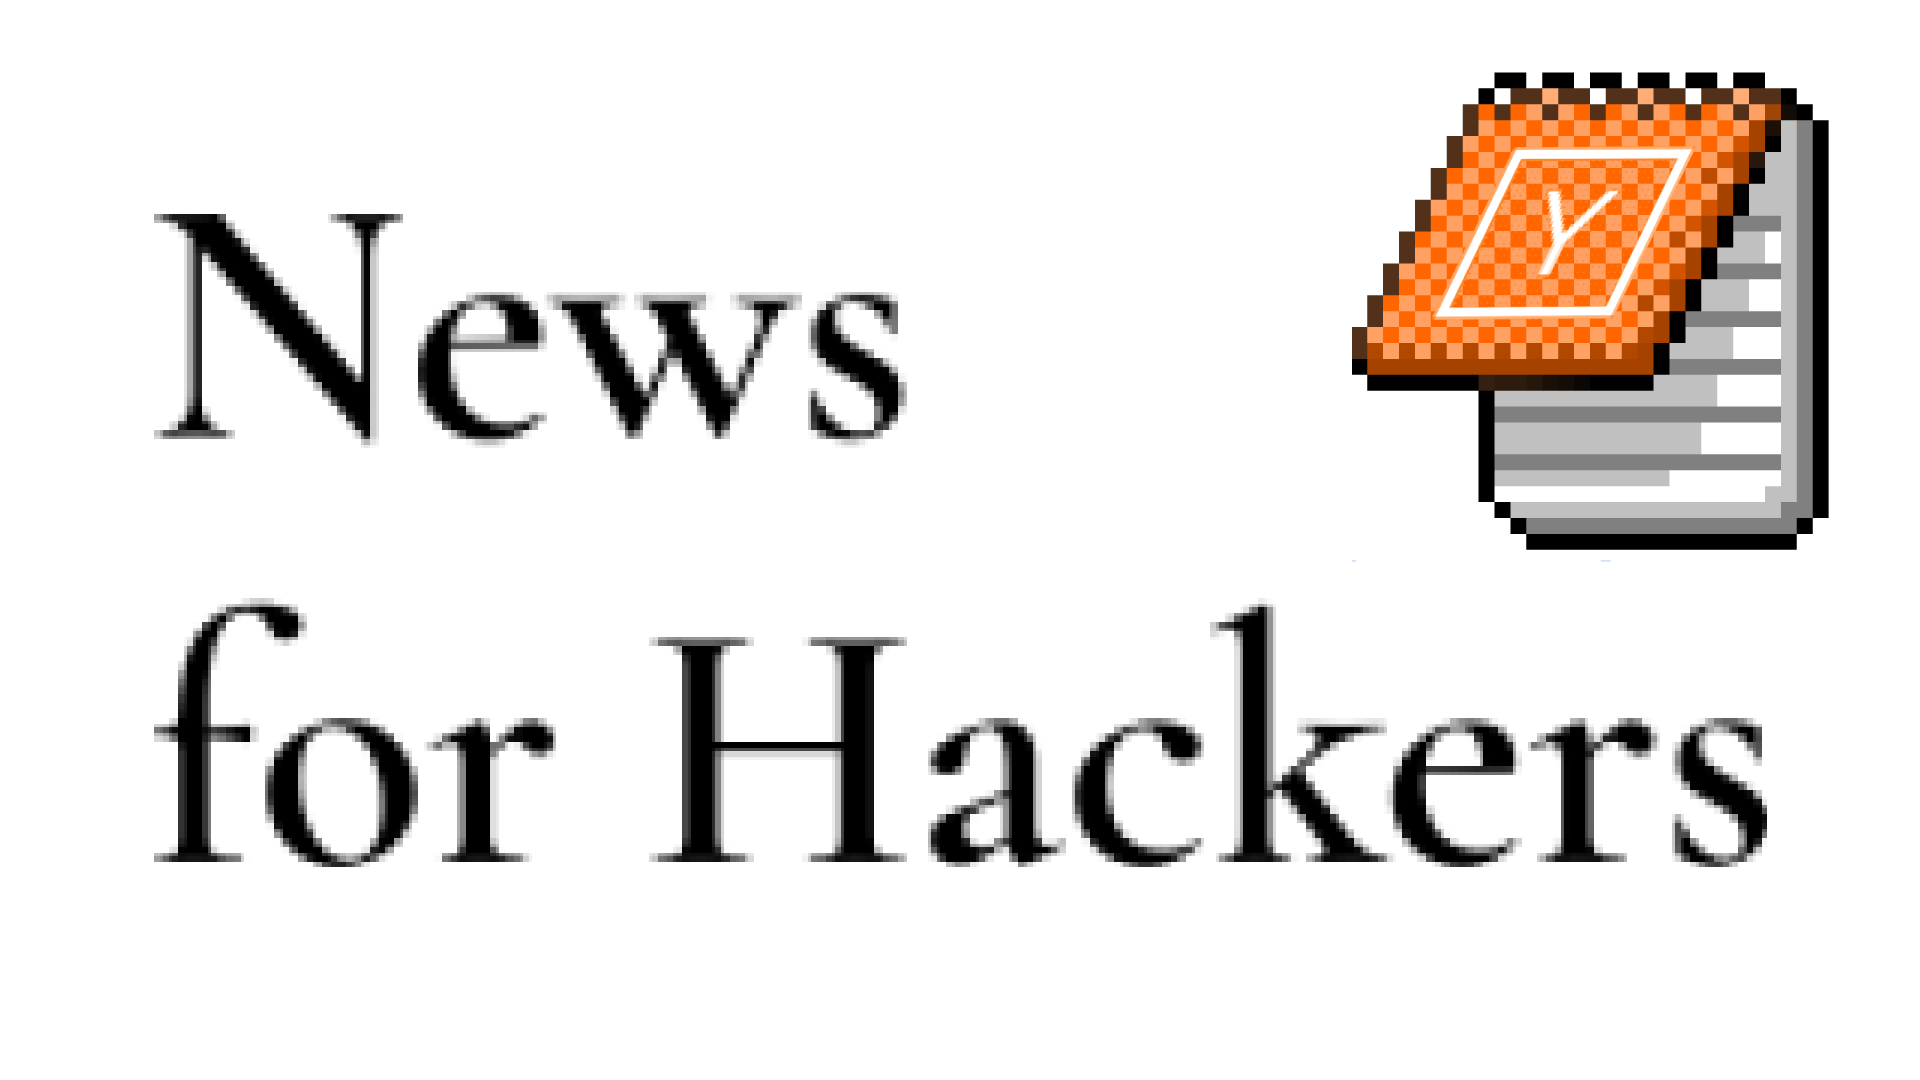
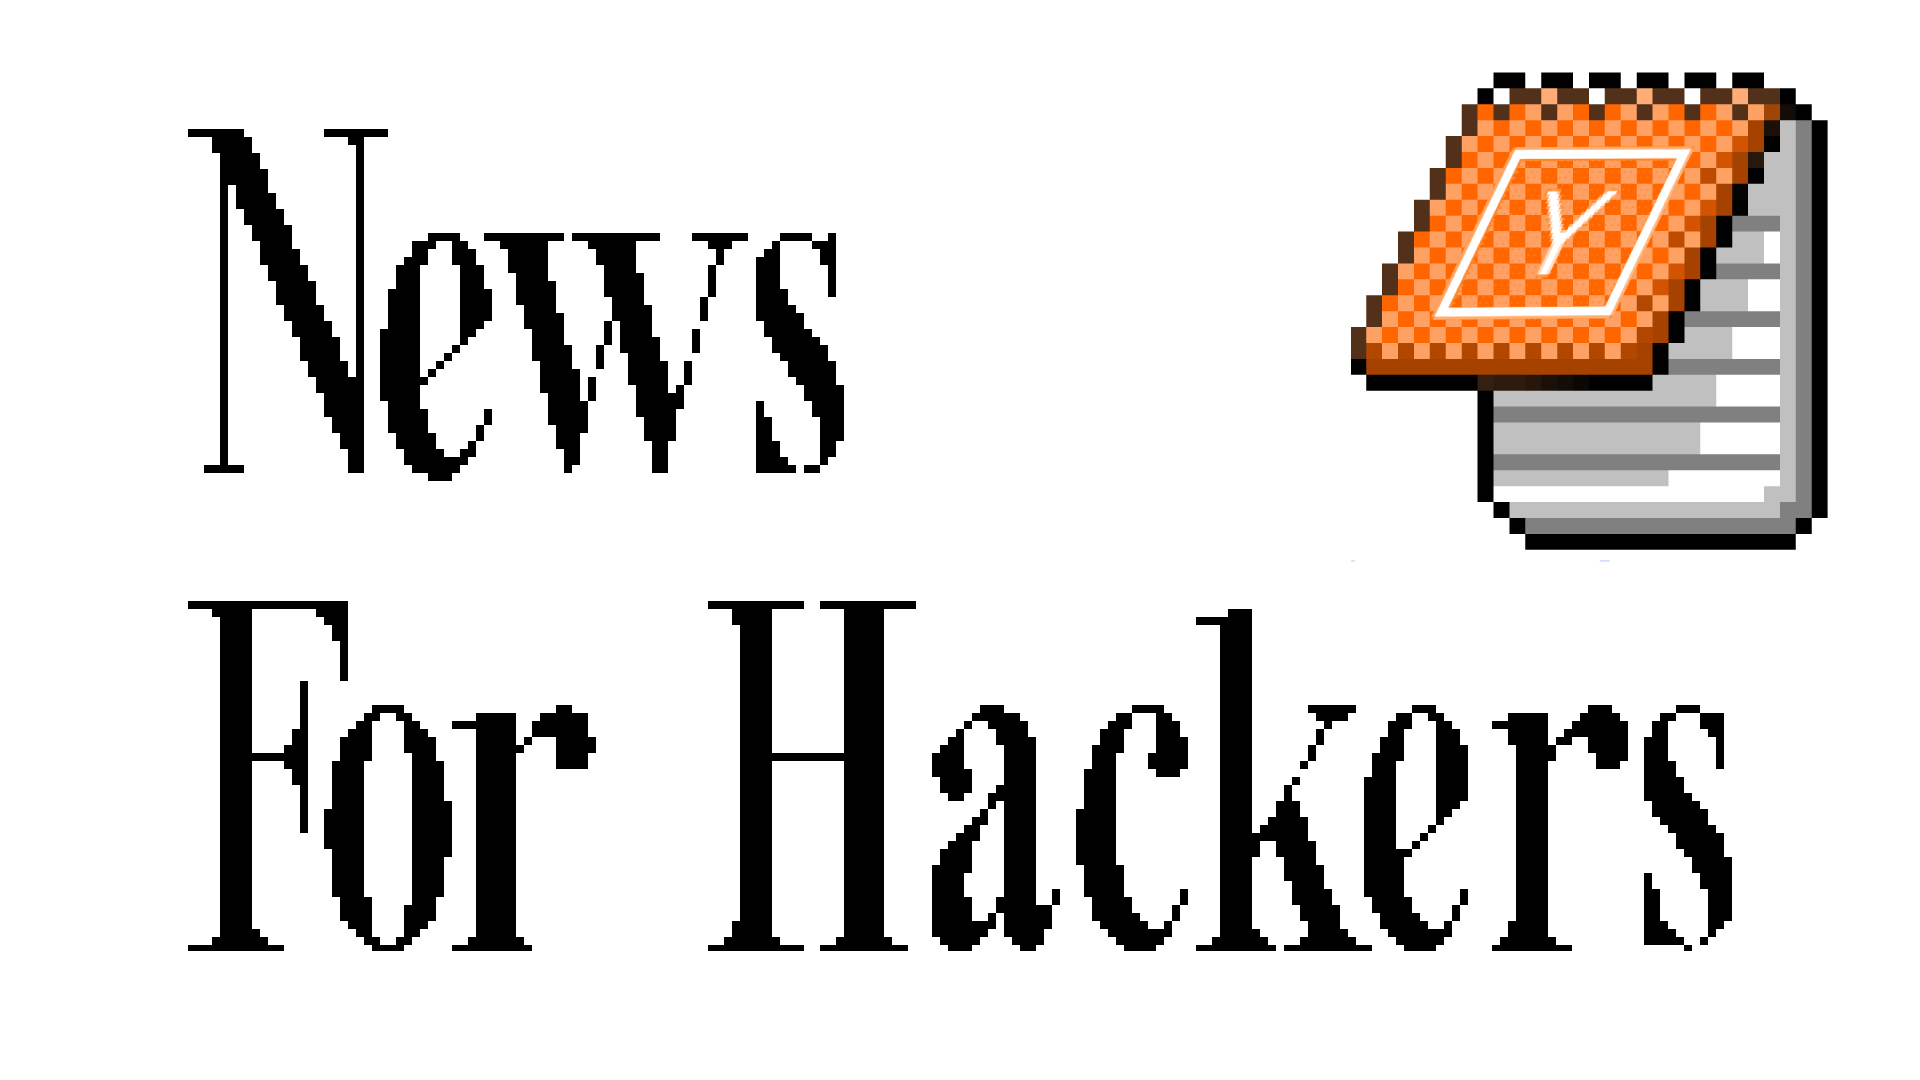
update guestbook date formatting and add separator styling; replace header image

diff --git a/wwwroot/css/app.css b/wwwroot/css/app.css
@@ -176,6 +176,11 @@ html {
 	margin: 0 2px;
 }
 
+.separator {
+	border-top: .05rem solid var(--secondary);
+	border-width: .05rem 0;
+}
+
 .window {
 	margin: 0;
 	border-radius: 7px;
